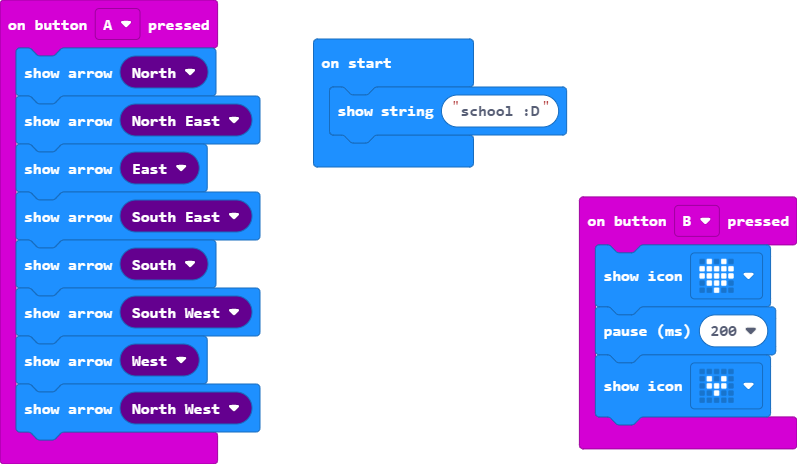
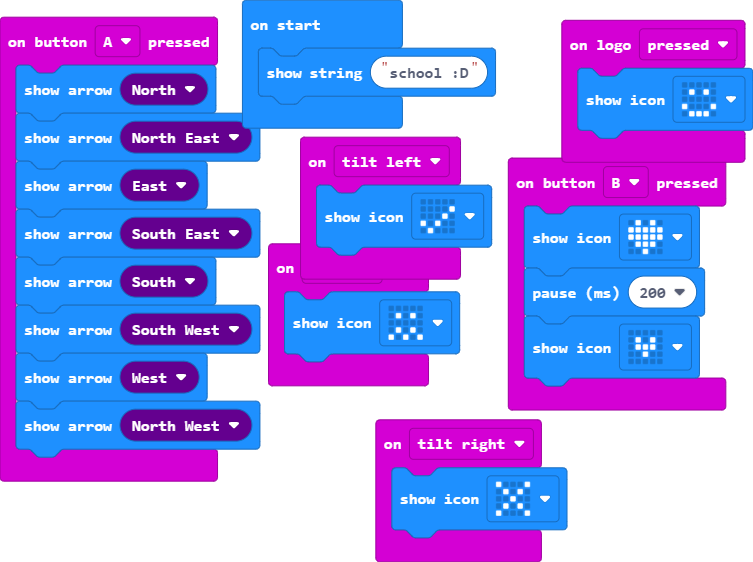
Update main.blocks, main.ts

diff --git a/main.ts b/main.ts
@@ -8,9 +8,21 @@ input.onButtonPressed(Button.A, function () {
     basic.showArrow(ArrowNames.West)
     basic.showArrow(ArrowNames.NorthWest)
 })
+input.onGesture(Gesture.TiltLeft, function () {
+    basic.showIcon(IconNames.Yes)
+})
 input.onButtonPressed(Button.B, function () {
     basic.showIcon(IconNames.Heart)
     basic.pause(200)
     basic.showIcon(IconNames.SmallHeart)
+})
+input.onGesture(Gesture.Shake, function () {
+    basic.showIcon(IconNames.Confused)
+})
+input.onGesture(Gesture.TiltRight, function () {
+    basic.showIcon(IconNames.No)
+})
+input.onLogoEvent(TouchButtonEvent.Pressed, function () {
+    basic.showIcon(IconNames.Happy)
 })
 basic.showString("school :D")
